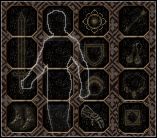
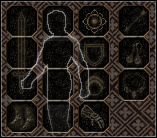
Inventory layout as on the wiki (poprawki-3.0.8 point 4): buttons 15-18, no "Sklep" in the side bar, no empty frame right of 11 (MT2009_PLUS_INVENTORY_WIKI_V1)
- equipment window round buttons: 15 Panel Alchemii, 16 Magazyn ItemShop (/click_mall), 17 Osobisty Sklepik Premium (the
  own offline shop again - 3.0.6b had it open the ItemShop storage a second time), 18 Kostiumy; the same tooltips in the
  fallback one-window script
- side bar: "Sklep" (offline shop) removed altogether (Podglad skrzyn stays)
- equip_bg_mt2009.png: the empty bottom right frame (right of 11 Rekawice, under 7 Naszyjnik) is background now - the
  corner taken from the GF client's equipment_bg_without_ring.tga (tools/inv2/make_inv2_images.py --gf=..., the rest of
  the picture is the package's pixel for pixel)

Claude-Session: https://claude.ai/code/session_01MhoVnSutDufXZXgzXJPijv

Changed region(s): [[0.7389, 0.7246, 0.9682, 0.9855]]

diff --git a/client-patches/client-2.0.30/tools/inv2/make_inv2_images.py b/client-patches/client-2.0.30/tools/inv2/make_inv2_images.py
@@ -8,13 +8,20 @@
 #   d:/ymir work/ui/new_inventory/btn_[0-3]_[0-2].png    the package's round buttons (Alchemia, Magazyn, Sklep, Kostiumy)
 #   d:/ymir work/ui/new_inventory/equip_bg_mt2009.png    the package's equip_bg_0.png with the pet icon of the bottom right
 #                                                        frame wiped (no pet slot here): the inside of the sub picture's
-#                                                        empty ring frame is copied over it - that frame holds our small
+#                                                        empty ring frame is copied over it - that frame held our small
 #                                                        buttons (horse bag, chest preview; uiscript/inventoryequipwindow.py)
+#                                                        MT2009_PLUS_INVENTORY_WIKI_V1 (the owner, 3 November 2026: the
+#                                                        empty frame right of 11 Rekawice "usunac"): with --gf=<the GF
+#                                                        client's d:/ymir work/ui/equipment_bg_without_ring.tga> the whole
+#                                                        bottom right corner (CORNER) is that picture's - the background
+#                                                        pattern and the border, no frame (the GF picture's top 157 x 138
+#                                                        is the package's equip_bg_0.png pixel for pixel elsewhere)
 #
 # (tab_half_0[1-3].png of the same folder, MT2009_PLUS_INVENTORY_V2_V2, were cut once by hand from the GF client's
 # windows.dds - build_inv2_packs.py says where; this script leaves them as they are.)
 #
-#   python3 make_inv2_images.py <package dir>/Binary/etc/ymir\ work/ui/new_inventory [--check]
+#   python3 make_inv2_images.py <package dir>/Binary/etc/ymir\ work/ui/new_inventory \
+#       --gf=/opt/metin2/cache/gf/Gameforge_26.1.11/_client/d_/ymir\ work/ui/equipment_bg_without_ring.tga [--check]
 import os
 import struct
 import sys
@@ -26,6 +33,7 @@ COPY = ['equip_bg_sub.png', 'equip_pagebtn_bg.png'] + ['btn_%d_%d.png' % (a, b) 
 # the bottom right frame's inside in equip_bg_0.png (157 x 138) and where it is taken from in equip_bg_sub.png
 DST = (119, 103, 28, 29)		# x, y, w, h
 SRC = (8, 8)					# the first ring frame's inside
+CORNER = (112, 96, 45, 42)		# MT2009_PLUS_INVENTORY_WIKI_V1: x, y, w, h of equip_bg_0.png taken from the GF picture
 
 
 def load(path):
@@ -77,7 +85,27 @@ def save(w, h, ct, rows):
 		+ chunk(b'IDAT', zlib.compress(raw, 9)) + chunk(b'IEND', b''))
 
 
-def build(src):
+def load_tga(path):
+	# an uncompressed 24 / 32 bit TGA (the GF client's equipment_bg_without_ring.tga: 157 x 223, 24 bit) as RGB rows
+	b = open(path, 'rb').read()
+	assert b[2] == 2, (path, b[2])
+	w, h = struct.unpack('<HH', b[12:16])
+	px = b[16] // 8
+	assert px in (3, 4), (path, b[16])
+	o = 18 + b[0]
+	rows = []
+	for y in range(h):
+		r = bytearray()
+		for x in range(w):
+			q = o + (y * w + x) * px
+			r += bytes((b[q + 2], b[q + 1], b[q]))
+		rows.append(r)
+	if not (b[17] & 0x20):
+		rows.reverse()
+	return w, h, rows
+
+
+def build(src, gf=None):
 	out = {}
 	for n in COPY:
 		out[n] = open(os.path.join(src, n), 'rb').read()
@@ -90,6 +118,12 @@ def build(src):
 		for dx in range(dw):
 			s = srows[SRC[1] + dy]
 			rows[y0 + dy][(x0 + dx) * bpp:(x0 + dx + 1) * bpp] = s[(SRC[0] + dx) * bpp:(SRC[0] + dx + 1) * bpp]
+	if gf:
+		gw, gh, grows = load_tga(gf)
+		assert gw == w and gh >= h and bpp == 3, (gw, gh, bpp)
+		cx, cy, cw, ch = CORNER
+		for dy in range(ch):
+			rows[cy + dy][cx * bpp:(cx + cw) * bpp] = grows[cy + dy][cx * 3:(cx + cw) * 3]
 	out['equip_bg_mt2009.png'] = save(w, h, ct, rows)
 	assert load_bytes_ok(out['equip_bg_mt2009.png'])
 	return out
@@ -108,7 +142,8 @@ def load_bytes_ok(b):
 
 def main():
 	args = [a for a in sys.argv[1:] if not a.startswith('--')]
-	files = build(args[0])
+	gf = [a[5:] for a in sys.argv[1:] if a.startswith('--gf=')]
+	files = build(args[0], gf[0] if gf else None)
 	if '--check' in sys.argv:
 		bad = [n for n, b in sorted(files.items()) if not os.path.isfile(os.path.join(OUT, n))
 			or open(os.path.join(OUT, n), 'rb').read() != b]

diff --git a/client-patches/client-2.0.30/root/uiscript/inventoryequipwindow.py b/client-patches/client-2.0.30/root/uiscript/inventoryequipwindow.py
@@ -6,9 +6,9 @@ import player
 # MT2009_PLUS_INVENTORY_V2_V1 - the equipment window of the official v2 inventory (the package "offical_inventory_v2",
 # Autor: dracaryS; root/inventoryv2.py, uiinventory.py): the worn items in their own window, docked over the bag
 # (uiscript/inventorywindowv2.py) - the page tabs of Druga strona ekwipunku (uiaddeq.py, MT2009_PLUS_ADDEQ_V1) at the
-# top, the package's equipment picture (new_inventory/equip_bg_mt2009.png - its pet frame wiped: no pet slot here, the
-# frame stays empty) and under it the two rings and the four round buttons
-# (Alchemia, Magazyn przedmiotow, Sklep = Magazyn ItemShop, Kostiumy). Pictures: the pack inv2_ui (tools/inv2).
+# top, the package's equipment picture (new_inventory/equip_bg_mt2009.png - no pet slot here, its frame is background)
+# and under it the two rings and the four round buttons (Alchemia, Magazyn ItemShop, Osobisty Sklepik Premium,
+# Kostiumy). Pictures: the pack inv2_ui (tools/inv2).
 #
 # ONE slot window ("EquipmentSlot", as the old inventory had) covers both pictures, so uiinventory.py fills and reads
 # it as before (RefreshEquipSlotWindow, the rings included). Slot places = the package's (EquipmentSlot0); the rings
@@ -48,9 +48,13 @@ if EQUIPMENT_GLOVE_SLOT:
 
 # MT2009_PLUS_INVENTORY_V2_V2 (the owner's 3.0.6 tests): the page tabs' pictures are the package's tab
 # (game/windows/tab_button_large_half_0N.sub of the newer clients) as PNGs in the pack inv2_ui - the players' etc has
-# no such .sub: the radio buttons had no size, no picture, and their I-IV stood at the buttons' corners. The bottom
-# right frame of the equipment picture stays empty: the horse bag (removed from Yohara) and the chest preview (now in
-# the side bar) buttons are gone; the round "Sklep" button opens the ItemShop storage (uiinventory.ClickMyShopButton).
+# no such .sub: the radio buttons had no size, no picture, and their I-IV stood at the buttons' corners. The horse bag
+# (removed from Yohara) and the chest preview (now in the side bar) buttons are gone.
+# MT2009_PLUS_INVENTORY_WIKI_V1 (the owner's list of 3 November 2026, poprawki-3.0.8 point 4): the layout of the wiki -
+# the empty bottom right frame (right of 11 Rekawice, under 7 Naszyjnik) is gone from the picture (equip_bg_mt2009.png
+# takes that corner from the GF client's equipment_bg_without_ring.tga: the background only, tools/inv2/
+# make_inv2_images.py), and the round buttons are 15 Panel Alchemii, 16 Magazyn ItemShop, 17 Osobisty Sklepik Premium
+# (the own offline shop again - not a second ItemShop storage button as in 3.0.6b), 18 Kostiumy.
 TAB_IMAGE = ROOT + "tab_half_%02d.png"
 
 
@@ -149,9 +153,11 @@ window = {
 					"image" : ROOT + "equip_bg_sub.png",
 					"children" :
 					(
+						# MT2009_PLUS_INVENTORY_WIKI_V1: the wiki's 15-18 - Panel Alchemii, Magazyn ItemShop (/click_mall),
+						# Osobisty Sklepik Premium (the own offline shop), Kostiumy
 						RoundButton("DSSButton", 6, 0, uiScriptLocale.TASKBAR_DRAGON_SOUL),
-						RoundButton("DepositButton", 41, 1, uiScriptLocale.POCKET_DEPOSIT),
-						RoundButton("MyShopButton", 79, 2, "Magazyn ItemShop"),
+						RoundButton("DepositButton", 41, 1, "Magazyn ItemShop"),
+						RoundButton("MyShopButton", 79, 2, "Osobisty Sklepik Premium"),
 						RoundButton("CostumeButton", 120, 3, uiScriptLocale.COSTUME_WINDOW_TITLE),
 					),
 				},

diff --git a/client-patches/client-2.0.30/root/uiinventory.py b/client-patches/client-2.0.30/root/uiinventory.py
@@ -476,10 +476,11 @@ class SidebarWindow(ui.Window):
 		# (the owner, 5 October) - Shift+K (keybind "autohunt_quick") stays.
 		("pickup", "Sortowanie autopickup", "OnClickPickupFilter", "pickup_filter"),
 		("trash", "Kosz", "OnClickGarbageBin", "garbage_bin"),
-		# MT2009_PLUS_INVENTORY_V2_V2 (the owner's 3.0.6 tests): "Sklep" - the own offline shop (a bundle icon) in the
-		# shop search's place (the search stays on its key, F5); "Podglad skrzyn" in the Kolo Fortuny's place (the
-		# wheel stays on F12). Icons: tools/inv2/make_sidebar_icons.py.
-		("offlineshop", "Sklep", "OnClickOfflineShop", None),
+		# MT2009_PLUS_INVENTORY_V2_V2 (the owner's 3.0.6 tests): "Podglad skrzyn" in the Kolo Fortuny's place (the
+		# wheel stays on F12; the shop search on F5). Icons: tools/inv2/make_sidebar_icons.py.
+		# MT2009_PLUS_INVENTORY_WIKI_V1 (the owner's list of 3 November 2026, poprawki-3.0.8 point 4): the "Sklep"
+		# button (the own offline shop) is gone from the side bar altogether - the offline shop opens from the
+		# equipment window's round button 17 "Osobisty Sklepik Premium", as on the wiki.
 		("battlepass", "Battle Pass", "OnClickBattlePass", None),
 		("calendar", "Kalendarz event\xf3w", "OnClickEventCalendar", "event_calendar"),
 		("chestpreview", "Podgl\xb9d skrzy\xf1", "OnClickChestPreview", None),
@@ -813,13 +814,6 @@ class SidebarWindow(ui.Window):
 		interface = self.__GetInterface()
 		if interface is not None:
 			interface.ToggleGarbageBinWindow()
-
-	# Sklep - the own offline shop's window (interfacemodule.OpenPrivateShopManage: offlineShopManage.Toggle,
-	# ikashop.SendOpenShopOwner), as the equipment window's shop button opened it before.
-	def OnClickOfflineShop(self):
-		interface = self.__GetInterface()
-		if interface is not None:
-			interface.OpenPrivateShopManage()
 
 	# Battle Pass - as the taskbar's button.
 	def OnClickBattlePass(self):
@@ -2079,11 +2073,14 @@ class InventoryWindow(ui.ScriptWindow):
 			self.wndChestPreview = uichestpreview.ChestPreviewWindow(self)
 		self.wndChestPreview.Toggle()
 
-	# MT2009_PLUS_INVENTORY_V2_V2 (the owner's 3.0.6 tests): the round "Sklep" button opens the ItemShop storage
-	# from anywhere (/click_mall - the server answers ShowMeMallPassword, the mall storage); the own offline shop
-	# opens from the side bar's "Sklep" (SidebarWindow.OnClickOfflineShop).
+	# MT2009_PLUS_INVENTORY_WIKI_V1 (the owner's list of 3 November 2026, poprawki-3.0.8 point 4: "wracamy do ukladu
+	# z wiki" - 15 Panel Alchemii, 16 Magazyn ItemShop, 17 Osobisty Sklepik Premium, 18 Kostiumy): the round button 17
+	# opens the own offline shop again (interfacemodule.OpenPrivateShopManage: offlineShopManage.Toggle,
+	# ikashop.SendOpenShopOwner) - 3.0.6b had it open the ItemShop storage, which button 16 (ClickDepositButton,
+	# /click_mall) already does.
 	def ClickMyShopButton(self):
-		net.SendChatPacket("/click_mall")
+		if self.interface:
+			self.interface.OpenPrivateShopManage()
 
 	def SetEquipmentPage(self, page):
 		self.equipmentPageIndex = page

diff --git a/client-patches/client-2.0.30/tools/inv2/build_inv2_packs.py b/client-patches/client-2.0.30/tools/inv2/build_inv2_packs.py
@@ -1,7 +1,7 @@
 # -*- coding: utf-8 -*-
 # MT2009_PLUS_INVENTORY_V2_V1 - the pictures of the official v2 inventory (the package "offical_inventory_v2", Autor:
 # dracaryS; root/inventoryv2.py, uiscript/inventoryequipwindow.py) in a new pack, inv2_ui, with its Index line:
-#   d:/ymir work/ui/new_inventory/equip_bg_mt2009.png      the equipment picture (the package's, its pet frame wiped)
+#   d:/ymir work/ui/new_inventory/equip_bg_mt2009.png      the equipment picture (the package's, its pet frame wiped); its bottom right corner background only (MT2009_PLUS_INVENTORY_WIKI_V1)
 #   d:/ymir work/ui/new_inventory/equip_bg_sub.png         the rings + round buttons picture
 #   d:/ymir work/ui/new_inventory/equip_pagebtn_bg.png     the frame under a page tab
 #   d:/ymir work/ui/new_inventory/btn_[0-3]_[0-2].png      the four round buttons (normal / over / down)

diff --git a/client-patches/client-2.0.30/root/uiscript/inventorywindow.py b/client-patches/client-2.0.30/root/uiscript/inventorywindow.py
@@ -193,7 +193,7 @@ window = {
 
 									"x" : 17,"y" : 2,
 
-									"tooltip_text" : uiScriptLocale.POCKET_DEPOSIT,
+									"tooltip_text" : "Magazyn ItemShop",	# MT2009_PLUS_INVENTORY_WIKI_V1
 
 									"default_image" : flamewindPath.GetInventory("deposit_btn1"),
 									"over_image" : flamewindPath.GetInventory("deposit_btn2"),
@@ -205,7 +205,7 @@ window = {
 
 									"x": 32, "y": 2,
 
-									"tooltip_text" : "Magazyn ItemShop",	# MT2009_PLUS_INVENTORY_V2_V2
+									"tooltip_text" : "Osobisty Sklepik Premium",	# MT2009_PLUS_INVENTORY_WIKI_V1: the offline shop
 
 									"default_image": flamewindPath.GetInventory("myshop_btn1"),
 									"over_image": flamewindPath.GetInventory("myshop_btn2"),
